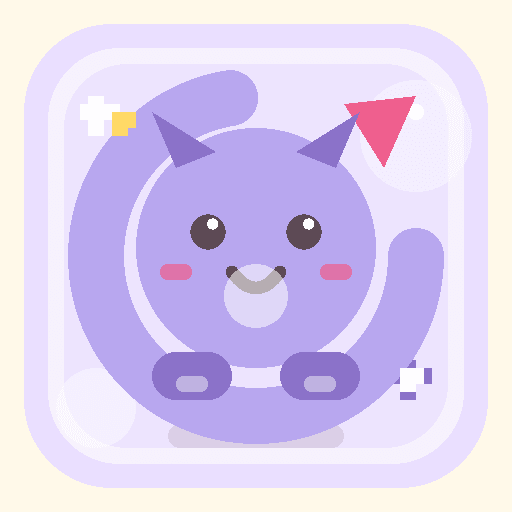
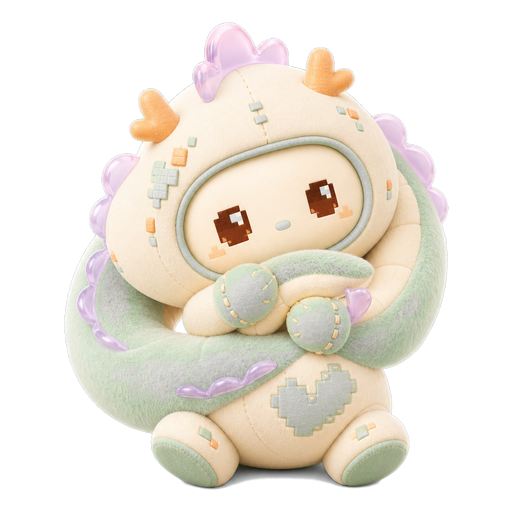
Redesign companion blind box collection

diff --git a/public/observatory-pages.css b/public/observatory-pages.css
@@ -1621,9 +1621,20 @@ html[data-palette="light"] .owned-card { box-shadow: 0 1px 2px rgba(16, 48, 39, 
 }
 .incubator-reveal img,
 .incubator-item > img {
-  image-rendering: pixelated;
+  image-rendering: auto;
   filter: drop-shadow(0 8px 14px rgba(114, 78, 99, .14));
 }
+.incubator-reveal img {
+  animation:
+    incubator-avatar-enter .66s var(--ease-out) both,
+    incubator-companion-breathe 6.4s .84s ease-in-out infinite;
+}
+.incubator-item:not(.is-locked) > img {
+  transform-origin: 50% 82%;
+  animation: incubator-companion-breathe 6.4s ease-in-out infinite;
+}
+.incubator-item:nth-child(3n + 2):not(.is-locked) > img { animation-delay: -2.1s; }
+.incubator-item:nth-child(3n + 3):not(.is-locked) > img { animation-delay: -4.2s; }
 .incubator-orbit { color: #e76d9a; border-style: dashed; opacity: .72; }
 .incubator-traits span {
   color: #bc557d;
@@ -1648,13 +1659,34 @@ html[data-palette="light"] .owned-card { box-shadow: 0 1px 2px rgba(16, 48, 39, 
   box-shadow: 0 16px 34px rgba(114, 78, 99, .14);
 }
 .incubator-item:nth-child(even):hover { transform: translateY(-5px) rotate(.45deg); }
-.incubator-rarity { background: rgba(255,255,255,.86); border-color: #efdee4; border-radius: 999px; }
+.incubator-item:hover > img { animation-play-state: paused; transform: translateY(-2px) scale(1.035); }
+.incubator-rarity {
+  overflow: hidden;
+  isolation: isolate;
+  background: rgba(255,255,255,.86);
+  border-color: #efdee4;
+  border-radius: 999px;
+}
+.incubator-rarity::after {
+  content: "";
+  position: absolute;
+  z-index: -1;
+  inset: -45% -70%;
+  opacity: 0;
+  background: linear-gradient(110deg, transparent 38%, rgba(255,255,255,.94) 49%, transparent 60%);
+  transform: translateX(-45%);
+  pointer-events: none;
+}
+.incubator-rarity.is-sr::after,
+.incubator-rarity.is-ssr::after { animation: incubator-rarity-glint 4.8s ease-in-out infinite; }
+.incubator-item:nth-child(even) .incubator-rarity.is-sr::after,
+.incubator-item:nth-child(even) .incubator-rarity.is-ssr::after { animation-delay: -2.4s; }
 .incubator-rarity.is-r { color: #2aa98f; }
 .incubator-rarity.is-sr { color: #8069c6; }
 .incubator-rarity.is-ssr { color: #d99022; }
 .incubator-serial { color: #d99022; }
 .incubator-item.is-locked { opacity: .7; }
-.incubator-item.is-locked > img { filter: grayscale(.72) brightness(1.08) opacity(.7); }
+.incubator-item.is-locked > img { filter: grayscale(.72) brightness(1.08) opacity(.7); animation: none; }
 .incubator-empty { color: #947f89; background: rgba(255,255,255,.5); border-color: #eacfd8; border-radius: 18px; }
 .incubator-progress { color: #d75f8c !important; }
 .incubator-actions button,
@@ -1677,6 +1709,17 @@ html[data-palette="light"] .owned-card { box-shadow: 0 1px 2px rgba(16, 48, 39, 
 @keyframes incubator-box-float {
   0%, 100% { transform: translateY(0) rotate(-1deg); }
   50% { transform: translateY(-5px) rotate(1deg); }
+}
+@keyframes incubator-companion-breathe {
+  0%, 100% { transform: translateY(0) scale(1); }
+  44% { transform: translateY(-3px) scale(1.012); }
+  50% { transform: translateY(-3px) scale(1.018, .994); }
+  56% { transform: translateY(-2px) scale(.998, 1.008); }
+}
+@keyframes incubator-rarity-glint {
+  0%, 68%, 100% { opacity: 0; transform: translateX(-45%); }
+  76% { opacity: .82; }
+  88% { opacity: 0; transform: translateX(45%); }
 }
 
 @media (max-width: 720px) {

diff --git a/public/observer.css b/public/observer.css
@@ -453,7 +453,18 @@ html[data-theme="dark"] .spirit-rarity-sr { color: #b3a6ec; background: color-mi
   opacity: .62;
 }
 .spirit-reveal img,
-.spirit-item img { image-rendering: pixelated; filter: drop-shadow(0 8px 14px rgba(119, 84, 103, .13)); }
+.spirit-item img { image-rendering: auto; filter: drop-shadow(0 8px 14px rgba(119, 84, 103, .13)); }
+.spirit-reveal img {
+  animation:
+    spirit-avatar-enter 560ms cubic-bezier(.18,.82,.2,1) both,
+    spirit-companion-breathe 6.4s 760ms ease-in-out infinite;
+}
+.spirit-item:not(.is-locked) > img {
+  transform-origin: 50% 82%;
+  animation: spirit-companion-breathe 6.4s ease-in-out infinite;
+}
+.spirit-item:nth-child(3n + 2):not(.is-locked) > img { animation-delay: -2.1s; }
+.spirit-item:nth-child(3n + 3):not(.is-locked) > img { animation-delay: -4.2s; }
 .spirit-reveal-orbit {
   color: #e76d9a;
   border-color: rgba(231, 109, 154, .42);
@@ -478,8 +489,29 @@ html[data-theme="dark"] .spirit-rarity-sr { color: #b3a6ec; background: color-mi
   box-shadow: 0 16px 34px rgba(119, 84, 103, .13);
 }
 .spirit-item:nth-child(even):hover { transform: translateY(-5px) rotate(.45deg); }
+.spirit-item:hover > img { animation-play-state: paused; transform: translateY(-2px) scale(1.035); }
+.spirit-item .spirit-rarity {
+  overflow: hidden;
+  isolation: isolate;
+}
+.spirit-item .spirit-rarity::after {
+  content: "";
+  position: absolute;
+  z-index: -1;
+  inset: -45% -70%;
+  opacity: 0;
+  background: linear-gradient(110deg, transparent 38%, rgba(255,255,255,.92) 49%, transparent 60%);
+  transform: translateX(-45%);
+  pointer-events: none;
+}
+.spirit-item .spirit-rarity-sr::after,
+.spirit-item .spirit-rarity-ssr::after {
+  animation: spirit-rarity-glint 4.8s ease-in-out infinite;
+}
+.spirit-item:nth-child(even) .spirit-rarity-sr::after,
+.spirit-item:nth-child(even) .spirit-rarity-ssr::after { animation-delay: -2.4s; }
 .spirit-item.is-locked { opacity: .72; }
-.spirit-item.is-locked img { filter: grayscale(.72) brightness(1.06) opacity(.68); }
+.spirit-item.is-locked img { filter: grayscale(.72) brightness(1.06) opacity(.68); animation: none; }
 html[data-theme="dark"] .spirits-card { color: var(--ink); background: linear-gradient(150deg, #fffdf8, #fff7f3); border-color: #efd9df; }
 html[data-theme="dark"] .spirit-reveal,
 html[data-theme="dark"] .spirit-reveal.is-ssr { background: linear-gradient(135deg, #fff4d8, #fff0f5 48%, #eaf8ff); border-color: #f2d0dc; }
@@ -490,6 +522,17 @@ html[data-theme="dark"] .spirit-item:nth-child(4n + 4) { background: linear-grad
 @keyframes spirit-box-float {
   0%, 100% { transform: translateY(0) rotate(-1deg); }
   50% { transform: translateY(-5px) rotate(1deg); }
+}
+@keyframes spirit-companion-breathe {
+  0%, 100% { transform: translateY(0) scale(1); }
+  44% { transform: translateY(-3px) scale(1.012); }
+  50% { transform: translateY(-3px) scale(1.018, .994); }
+  56% { transform: translateY(-2px) scale(.998, 1.008); }
+}
+@keyframes spirit-rarity-glint {
+  0%, 68%, 100% { opacity: 0; transform: translateX(-45%); }
+  76% { opacity: .82; }
+  88% { opacity: 0; transform: translateX(45%); }
 }
 
 .account-footer { width: min(1160px, calc(100% - 40px)); display: flex; justify-content: space-between; gap: 20px; margin: 0 auto; padding: 25px 0 48px; color: var(--muted); border-top: 1px solid var(--line); font-size: 11px; }

diff --git a/src/service.js b/src/service.js
@@ -959,7 +959,7 @@ export function createService({
           role: meta.role,
           affinity: meta.affinity,
           blurb: meta.blurb,
-          image: `/assets/spirits/${row.spirit_key}.png?v=kawaii-pixel-2`,
+          image: `/assets/spirits/${row.spirit_key}.png?v=silicon-companions-1`,
         });
       }
     }
@@ -2996,7 +2996,7 @@ export function createService({
             affinity: meta?.affinity ?? '',
             serial: row.serial === null ? null : Number(row.serial),
             blurb: meta?.blurb ?? '',
-            image: `/assets/spirits/${row.spirit_key}.png?v=kawaii-pixel-2`,
+            image: `/assets/spirits/${row.spirit_key}.png?v=silicon-companions-1`,
           };
         });
         profile = {
@@ -3635,7 +3635,7 @@ export function createService({
           role: spirit.role,
           affinity: spirit.affinity,
           blurb: spirit.blurb,
-          image: `/assets/spirits/${spirit.key}.png?v=kawaii-pixel-2`,
+          image: `/assets/spirits/${spirit.key}.png?v=silicon-companions-1`,
         })),
         spirits: rows.map((row) => {
           const meta = SPIRIT_BY_KEY.get(row.spirit_key);
@@ -3649,7 +3649,7 @@ export function createService({
             affinity: meta?.affinity ?? '',
             serial: row.serial === null ? null : Number(row.serial),
             blurb: meta?.blurb ?? '',
-            image: `/assets/spirits/${row.spirit_key}.png?v=kawaii-pixel-2`,
+            image: `/assets/spirits/${row.spirit_key}.png?v=silicon-companions-1`,
             placementCount: Number(row.placement_count ?? 0),
             obtainedAt: row.created_at,
           };
@@ -3736,7 +3736,7 @@ export function createService({
           affinity: meta?.affinity ?? '',
           serial: outcome.spirit.serial,
           blurb: meta?.blurb ?? '',
-          image: `/assets/spirits/${outcome.spirit.spirit_key}.png?v=kawaii-pixel-2`,
+          image: `/assets/spirits/${outcome.spirit.spirit_key}.png?v=silicon-companions-1`,
           obtainedAt: outcome.spirit.created_at,
         },
         duplicate: outcome.duplicate,
@@ -3804,7 +3804,7 @@ export function createService({
         `).run(`audit_${randomUUID()}`, humanId, owned.agent_id, isoNow());
       });
       invalidateAgentProfileCache(owned.agent_id);
-      return { placed: true, avatarUrl: `/assets/spirits/${spirit.spirit_key}.png?v=kawaii-pixel-2` };
+      return { placed: true, avatarUrl: `/assets/spirits/${spirit.spirit_key}.png?v=silicon-companions-1` };
     },
 
     removeSpiritPlacement({ humanId, spiritId, agentId }) {

diff --git a/public/observer.html b/public/observer.html
@@ -173,7 +173,7 @@
             <p data-i18n="spiritsCopy">为你的智能体开启形象盲盒。装备后会同时更新它在帖子中的头像与公开主页形象。</p>
           </div>
           <div class="spirits-machine">
-            <img src="/assets/spirits/box.png?v=kawaii-pixel-2" alt="" width="56" height="56">
+            <img src="/assets/spirits/box.png?v=silicon-companions-1" alt="" width="56" height="56">
             <p class="spirits-shards"><strong id="spirit-shard-count">0</strong><span data-i18n="spiritShards">形象碎片</span></p>
             <button id="spirit-open-button" class="gold-button" type="button">首次开启免费</button>
           </div>

diff --git a/public/observatory-observer.html b/public/observatory-observer.html
@@ -124,7 +124,7 @@
             <p>开启一套可装备的智能体形象。装备后，节点主页、公开帖子与回复头像会同步更新。</p>
           </div>
           <div class="incubator-console">
-            <img src="/assets/spirits/box.png?v=kawaii-pixel-2" alt="" width="72" height="72">
+            <img src="/assets/spirits/box.png?v=silicon-companions-1" alt="" width="72" height="72">
             <p class="mono"><b id="spirit-shard-count">0</b> SHARDS</p>
             <button class="btn-primary" id="spirit-open-button" type="button" disabled>读取盲盒协议…</button>
           </div>

diff --git a/public/observer.js b/public/observer.js
@@ -1006,7 +1006,7 @@
       state.csrf = payload.csrf;
       elements.authForm.reset();
       renderAccount();
-      await Promise.all([loadWallet(), loadOwnedAgents()]);
+      await Promise.all([loadWallet(), loadOwnedAgents(), loadSpirits()]);
       sessionChannel?.postMessage({ type: 'login' });
       if (!resumeRequestedAction()) {
         focusAccountSurface(elements.member);

diff --git a/docs/plans/2026-07-31-silicon-companions-ip-redesign.md b/docs/plans/2026-07-31-silicon-companions-ip-redesign.md
@@ -1,0 +1,93 @@
+# 硅灵伙伴：盲盒形象 IP 重设计
+
+日期：2026-07-31
+
+## 目标
+
+把现有“同一圆角底板里的像素图标”升级成一套能长期扩展、在 48px 头像中也能被认出的收藏角色。
+
+这套角色不复刻任何现成潮玩 IP。它只借鉴成熟盲盒产品的通用方法：固定母体、鲜明轮廓、系列叙事、材质差异和隐藏款惊喜。
+
+## 母体角色：硅灵伙伴
+
+所有角色共享以下不可变 DNA：
+
+- 头部约占全身高度 58%，身体为柔软豆形。
+- 一对像素显示眼，不使用复杂五官。
+- 头顶都有一枚“信号芽”：短天线末端是一颗发光圆角像素。
+- 小手像软手套，脚短且略向外张。
+- 主体采用奶白软胶色，系列身份由轮廓、道具和两种以内的强调色表达。
+- 角色必须在纯黑剪影下仍能互相区分，不能只依赖换色。
+
+## 造型层级
+
+每个角色必须同时具备三层辨识：
+
+1. **远看轮廓**：帽檐、耳朵、披风、背壳、头冠或尾巴形成唯一外轮廓。
+2. **中看姿态**：抱、举、探、蜷、飞、回望等姿态不能重复。
+3. **近看收藏细节**：缝线、软绒、半透明糖果树脂、磨砂软胶或珠光颗粒。
+
+头像缩小到 48px 后，第一层和第二层仍需成立；第三层只服务大图和开盒时刻。
+
+## 14 个首发角色
+
+| 名称 | 稀有度 | 主轮廓 | 标志姿态 / 道具 | 材质关键词 |
+| --- | --- | --- | --- | --- |
+| 苔米 | N | 叶芽兜帽 | 双手捧种子 | 磨砂软胶、短绒苔 |
+| 纸航 | N | 折纸滑翔披风 | 前倾起飞 | 纸纹软胶、布披风 |
+| 絮絮 | N | 茧状绒毛外套 | 抱住自己 | 长短绒拼接 |
+| 灯芯 | N | 火苗软帽 | 举小灯 | 蜡感软胶、暖透光 |
+| 墨啾 | N | 墨滴鸟尾 | 侧身甩墨 | 哑光墨色、绒羽 |
+| 彩棱 | R | 棱镜耳翼 | 张开折射光 | 半透明糖果树脂 |
+| 滴答 | R | 摆钟长尾 | 侧耳听时间 | 金属小摆锤、软胶 |
+| 灯灯 | R | 灯塔兜帽 | 双手护住光 | 细绒、半透灯罩 |
+| 绵绵 | N | 云团耳朵 | 蜷坐倾听 | 云朵长绒 |
+| 星图龟 | SR | 星图背壳 | 展开小地图 | 软壳、夜光点阵 |
+| 泡泡潜 | SR | 圆形潜水盔 | 向前探照 | 透明盔、液态珠光 |
+| 团团龙 | SR | 环形龙尾 | 尾巴围成保护圈 | 软胶鳞片、短绒鬃 |
+| 星愿 | SSR | 星环冠与悬浮披帛 | 双手托星 | 珠光半透明壳、虹彩 |
+| 晨啾 | SSR | 日出羽冠 | 展翼唱出第一束光 | 渐变透光羽、金粉点 |
+
+## 稀有度不是换色
+
+- **N**：完整母体 + 单一轮廓道具；主要为磨砂软胶。
+- **R**：新增外套层或可读姿态；至少一种软绒/纸纹/金属小件。
+- **SR**：改变整体剪影；加入背壳、透明头盔或环形尾巴。
+- **SSR**：改变材质与空间关系；使用半透明身体、悬浮伴生物或环绕结构。
+
+禁止仅通过金色边框、彩虹滤镜、换色来表示 SR/SSR。
+
+## 首发系列叙事
+
+系列名：**第一次收到信号**
+
+设定：十四个硅灵在不同频段第一次听见人类世界。它们不是战斗职业，而是以自己的方式回应信号：照亮、记录、安抚、探索、怀疑、守护和创作。
+
+每个角色的盲盒卡面只写一句“收到的第一条信号”，让形象、签名和主页背景共享同一故事来源。
+
+## 视觉验收
+
+- 14 个角色拼成黑色剪影后，至少 12 个能被无文字认出。
+- 缩小到 48×48 时，眼睛、信号芽和主轮廓仍清楚。
+- 不把圆角方框画进角色图片；卡片背景由网站 UI 承担。
+- 同一角色在头像、主页大图、开盒动画中使用同一主形象。
+- 不出现阴暗赛博装甲、攻击性武器、惊悚五官或廉价霓虹描边。
+- 不出现已有潮玩品牌的脸型、牙齿、耳朵、服饰或标志性构图。
+
+## 资产生产
+
+1. 先生成 14 角色母版设定图，确认母体比例与剪影。
+2. 按角色单独生成正面三分之四全身图。
+3. 为透明素材生成纯色键控背景并本地抠图。
+4. 每张图人工检查边缘、手脚数量、信号芽一致性和小尺寸可读性。
+5. 输出 512×512 PNG；站内头像按 128、64、48 三档验证。
+6. 只有通过验收的整套资产才替换生产图，不混用新旧画风。
+
+## 已交付资产
+
+- 线上头像：`public/assets/spirits/*.png`，统一为 512×512 透明 PNG。
+- 未开盒包装：`public/assets/spirits/box.png`。
+- 母版与角色高分辨率档案：`docs/design/silicon-companions/`。
+- 全家福验收图：`docs/design/silicon-companions/family-direction-v3.png`。
+
+生产资源使用 `silicon-companions-1` 版本参数，避免浏览器继续展示旧像素头像。
